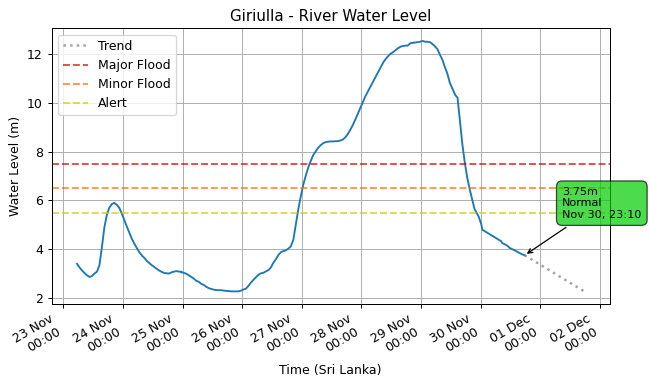
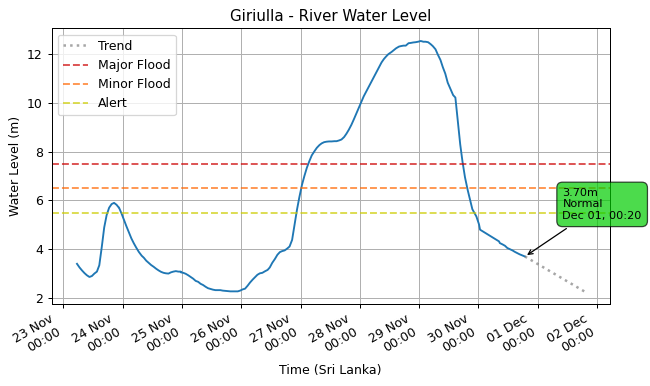
🤖 [update_latest.yml] 2025-11-30-1850

diff --git a/README.md b/README.md
@@ -1,11 +1,11 @@
 # lk_irrigation 🇱🇰
 
 ![Status: Live](https://img.shields.io/badge/status-live-brightgreen)
-![LastUpdated](https://img.shields.io/badge/last_updated-2025--12--01_00:09:25-green)
+![LastUpdated](https://img.shields.io/badge/last_updated-2025--12--01_00:20:00-green)
 
 Realtime Data about *River Water Levels* in Sri Lanka, from the [Irrigation Deptartment](https://www.irrigation.gov.lk)'s [Hydrology and Disaster Management](https://www.irrigation.gov.lk/web/index.php?option=com_content&view=article&id=27&Itemid=128&lang=en) Division.
 
-- [Complete Dataset](data/rwlds) with **6,262 measurements** from **39** stations.
+- [Complete Dataset](data/rwlds) with **6,263 measurements** from **39** stations.
 - [Scrape and load logic](src/lk_irrigation/rwld/RiverWaterLevelDataLoadMixin.py)
 - [Original Data source](https://www.arcgis.com/apps/dashboards/2cffe83c9ff5497d97375498bdf3ff38)
 
@@ -15,10 +15,11 @@ Realtime Data about *River Water Levels* in Sri Lanka, from the [Irrigation Dept
 
 ## Latest measurements
 
-*There were **32** measurements in the last **1 hour**.*
+*There were **31** measurements in the last **1 hour**.*
 
 | Measured At | Station (River Basin) | Level (m) | Alert Level | Rate-of-Rise (m/hr) | Rising Alert |
 | --- | --- | ---: | --- | ---: | --- |
+| 2025-12-01 00:20:00 | Giriulla (Maha Oya) | 3.70 | 🟢 Normal | -0.043 |  |
 | 2025-12-01 00:09:25 | Thanthirimale (Malwathu Oya) | 10.64 | 🔴 Major Flood | -0.033 |  |
 | 2025-12-01 00:08:26 | Wellawaya (Kirindi Oya) | 1.23 | 🟢 Normal | 0.000 |  |
 | 2025-12-01 00:08:22 | Baddegama (Gin Ganga) | 2.28 | 🟢 Normal | -0.020 |  |
@@ -49,8 +50,6 @@ Realtime Data about *River Water Levels* in Sri Lanka, from the [Irrigation Dept
 | 2025-12-01 00:00:44 | Thalgahagoda (Nilwala Ganga) | 1.04 | 🟢 Normal | 0.000 |  |
 | 2025-12-01 00:00:11 | Horowpothana (Yan Oya) | 7.43 | 🟡 Alert | -0.041 |  |
 | 2025-12-01 00:00:09 | Moraketiya (Walawe Ganga) | 1.41 | 🟢 Normal | -0.030 |  |
-| 2025-11-30 23:14:47 | Kalawellawa (Millakanda) (Kalu Ganga) | 7.60 | 🟠 Minor Flood | -0.026 |  |
-| 2025-11-30 23:10:56 | Giriulla (Maha Oya) | 3.75 | 🟢 Normal | -0.039 |  |
 
 ## Latest by Station
 
@@ -92,7 +91,7 @@ Realtime Data about *River Water Levels* in Sri Lanka, from the [Irrigation Dept
 | 2025-11-30 14:03:57 | Padiyathalawa (Maduru Oya) | 1.17 | 🟢 Normal | -0.021 |  |
 | 2025-12-01 00:03:00 | Panadugama (Nilwala Ganga) | 3.55 | 🟢 Normal | -0.022 |  |
 | 2025-12-01 00:00:09 | Moraketiya (Walawe Ganga) | 1.41 | 🟢 Normal | -0.030 |  |
-| 2025-11-30 23:10:56 | Giriulla (Maha Oya) | 3.75 | 🟢 Normal | -0.039 |  |
+| 2025-12-01 00:20:00 | Giriulla (Maha Oya) | 3.70 | 🟢 Normal | -0.043 |  |
 | 2025-12-01 00:07:01 | Holombuwa (Kelani Ganga) | 1.51 | 🟢 Normal | -0.058 |  |
 | 2025-11-30 23:01:04 | Magura (Kalu Ganga) | 2.47 | 🟢 Normal | -0.090 |  |
 | 2025-12-01 00:05:19 | Kithulgala (Kelani Ganga) | 2.35 | 🟢 Normal | -0.138 |  |
